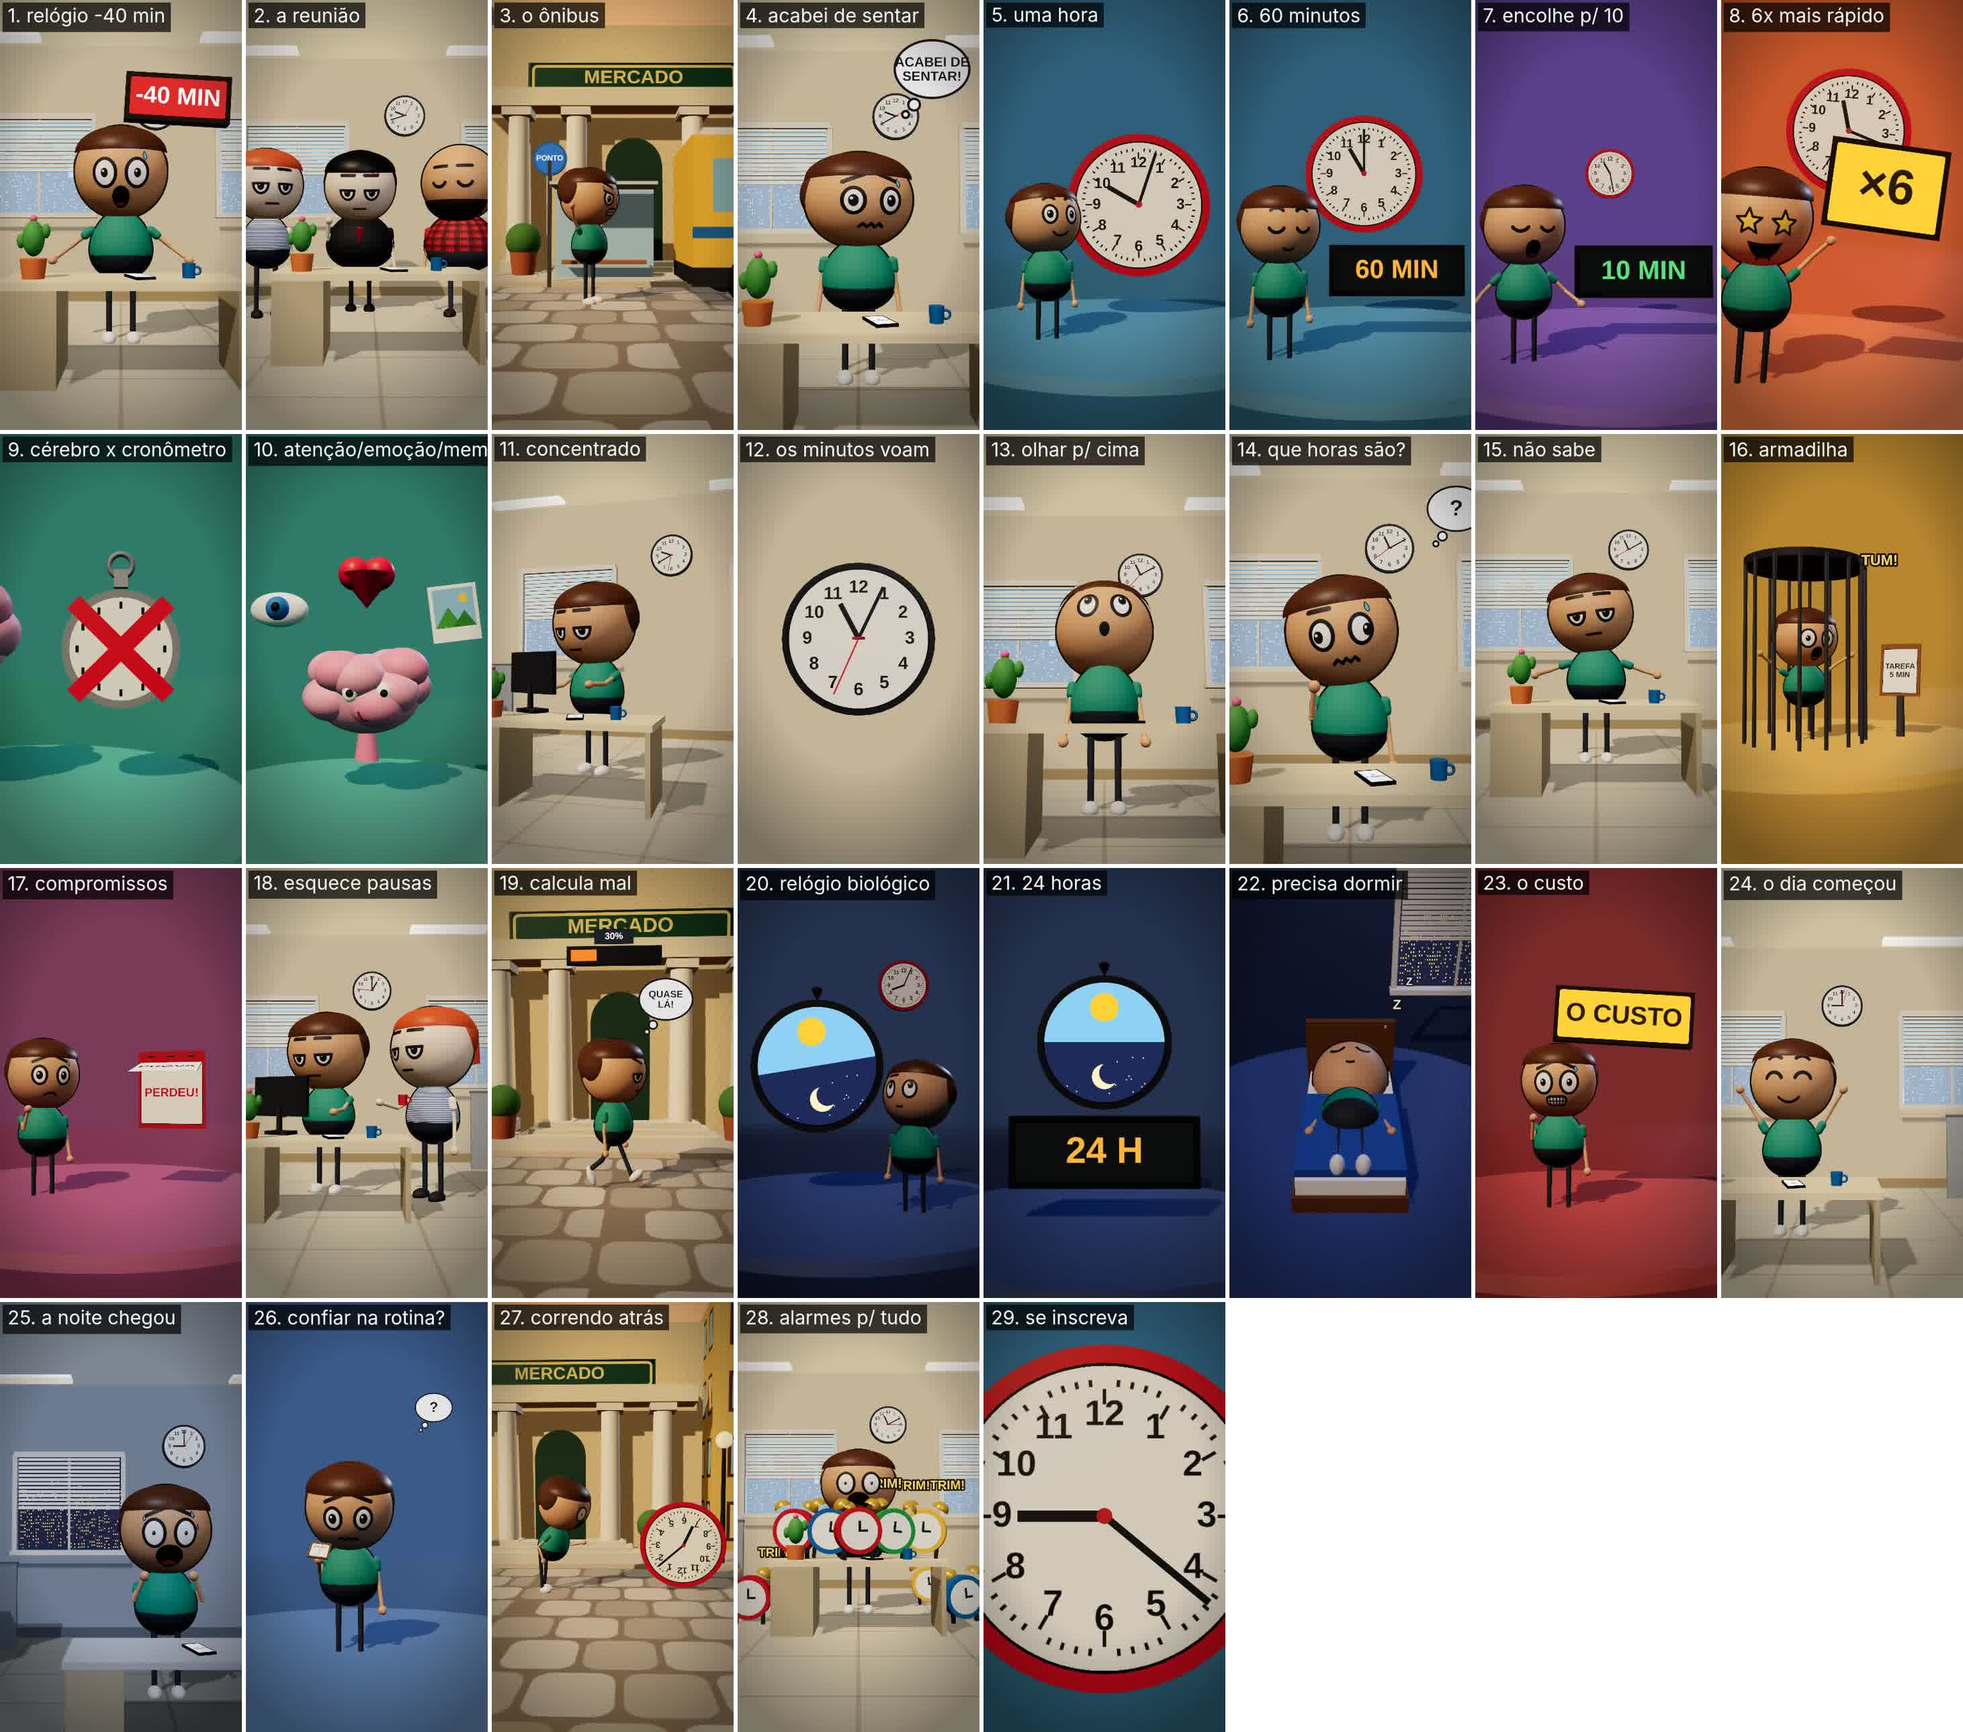
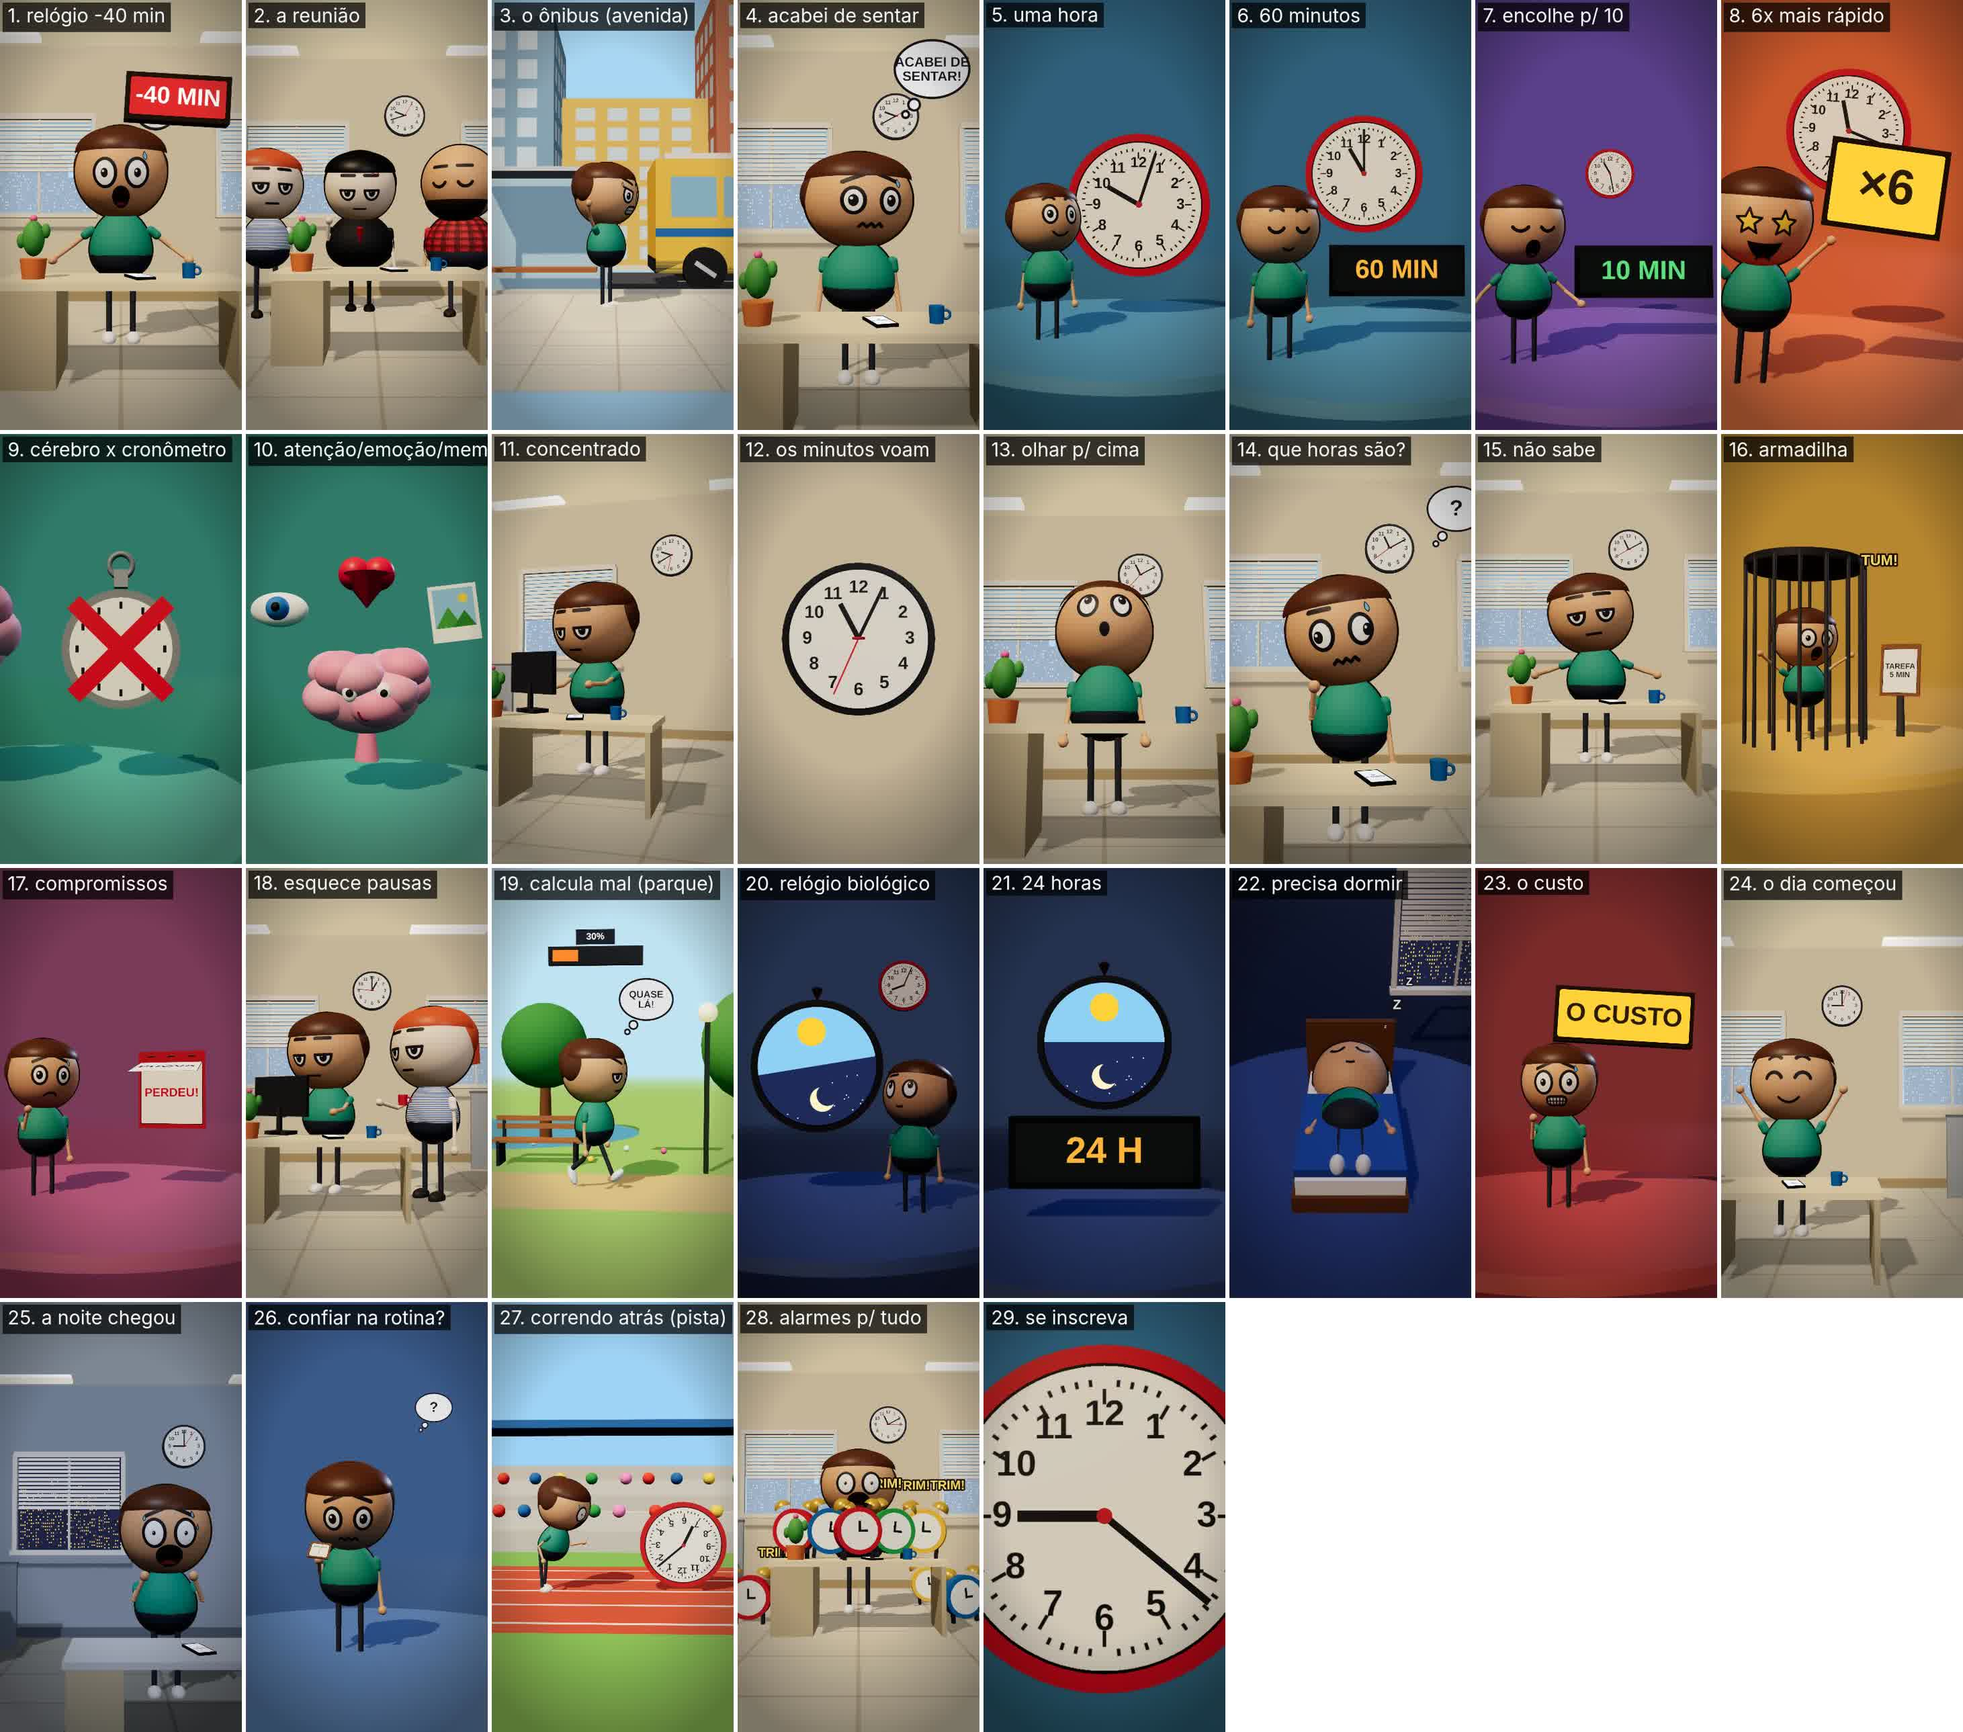
Cenas 3, 19 e 27 com cenários próprios (avenida, parque, pista); regra de não repetir cenários
Claude-Session: https://claude.ai/code/session_016bHbYKiNFahAkYpXj2UE3y

Changed region(s): [[0.2491, 0.4965, 0.3737, 1.0], [0.2491, 0.0, 0.3737, 0.2483]]

diff --git a/estudio-animacoes-3d/src/cenarios.tsx b/estudio-animacoes-3d/src/cenarios.tsx
@@ -472,3 +472,195 @@ const grama = () =>
   }, [20, 20]);
 
 
+
+// ============================================================================
+// AVENIDA COM PONTO DE ÔNIBUS — calçada na frente (z -0.6 a 1.6), rua atrás (faixa central em z = -3,
+// o ônibus anda em z ≈ -2.6), prédios ao fundo. Semáforo, faixa de pedestre, árvores.
+// ============================================================================
+export const Avenida = ({ t = 0 }: { t?: number }) => (
+  <group>
+    <Luz bg="#a9d6f2" ceu="#fff6e0" chao="#6a6a6a" fill={1.05} sol="#ffe8c8" forca={2.4} fog={[22, 70]} />
+    {/* calçada */}
+    <mesh rotation={[-Math.PI / 2, 0, 0]} position={[0, 0.06, 2]} receiveShadow>
+      <planeGeometry args={[60, 5.2]} />
+      <meshStandardMaterial map={pisoCalcada()} roughness={0.9} />
+    </mesh>
+    <Box p={[0, 0.06, -0.62]} s={[60, 0.14, 0.2]} c="#c9c4ba" />
+    {/* asfalto */}
+    <mesh rotation={[-Math.PI / 2, 0, 0]} position={[0, 0, -3.2]} receiveShadow>
+      <planeGeometry args={[60, 5.2]} />
+      <meshStandardMaterial color="#4a4d55" roughness={0.95} />
+    </mesh>
+    {Array.from({ length: 16 }, (_, i) => (
+      <Box key={i} p={[-24 + i * 3.2, 0.01, -3.2]} s={[1.6, 0.01, 0.14]} c="#f2e9c8" />
+    ))}
+    {Array.from({ length: 6 }, (_, i) => (
+      <Box key={`fp${i}`} p={[4.6, 0.012, -1.2 - i * 0.8]} s={[2.0, 0.01, 0.4]} c="#f4f4f2" />
+    ))}
+    {/* calçada do outro lado e prédios */}
+    <mesh rotation={[-Math.PI / 2, 0, 0]} position={[0, 0.06, -7.2]}>
+      <planeGeometry args={[60, 3]} />
+      <meshStandardMaterial color="#cfc8bb" />
+    </mesh>
+    {[[-11, 7, '#d98c5f'], [-5.5, 9, '#7fa8c8'], [0, 6, '#e8b85a'], [5.5, 10, '#c7765a'], [11, 7.5, '#9fc08a']].map(([x, h, c], i) => (
+      <Box key={i} p={[x as number, (h as number) / 2, -10]} s={[5.2, h as number, 4]} map={janelasPredio(c as string)} />
+    ))}
+    {/* semáforo */}
+    <group position={[3.2, 0, -0.9]}>
+      <Box p={[0, 1.6, 0]} s={[0.1, 3.2, 0.1]} c="#2a2c32" />
+      <Box p={[0, 3.3, 0.05]} s={[0.36, 0.9, 0.26]} c="#2a2c32" />
+      {['#ff4a3a', '#ffd23a', '#5ce07a'].map((c, i) => (
+        <mesh key={c} position={[0, 3.6 - i * 0.28, 0.19]}>
+          <circleGeometry args={[0.1, 20]} />
+          <meshStandardMaterial color={c} emissive={c} emissiveIntensity={(Math.floor(t / 2) % 3) === i ? 2.2 : 0.15} toneMapped={false} />
+        </mesh>
+      ))}
+    </group>
+    {/* árvores na calçada */}
+    {[-5.5, 6.5].map((x) => (
+      <group key={x} position={[x, 0, -0.1]}>
+        <mesh position={[0, 1.0, 0]}>
+          <cylinderGeometry args={[0.1, 0.14, 2.0, 10]} />
+          <meshStandardMaterial color="#7a4a26" />
+        </mesh>
+        <mesh position={[0, 2.5, 0]} castShadow>
+          <sphereGeometry args={[1.0, 18, 14]} />
+          <meshStandardMaterial color="#4f9a42" roughness={0.9} />
+        </mesh>
+      </group>
+    ))}
+    <Box p={[-3.6, 0.45, 1.2]} s={[0.5, 0.9, 0.5]} c="#3a7a4a" />
+  </group>
+);
+
+const pisoCalcada = () =>
+  canvasTex('calcada', 512, 512, (c) => {
+    c.fillStyle = '#d9d2c4';
+    c.fillRect(0, 0, 512, 512);
+    c.strokeStyle = 'rgba(90,80,70,0.3)';
+    c.lineWidth = 4;
+    for (let i = 0; i <= 4; i++) {
+      c.beginPath();
+      c.moveTo(i * 128, 0);
+      c.lineTo(i * 128, 512);
+      c.moveTo(0, i * 128);
+      c.lineTo(512, i * 128);
+      c.stroke();
+    }
+  }, [20, 2]);
+
+const janelasPredio = (cor: string) =>
+  canvasTex(`predio|${cor}`, 256, 512, (c) => {
+    c.fillStyle = cor;
+    c.fillRect(0, 0, 256, 512);
+    c.fillStyle = '#cfe6f4';
+    for (let y = 30; y < 500; y += 60) for (let x = 24; x < 230; x += 56) c.fillRect(x, y, 34, 40);
+  });
+
+// ============================================================================
+// PARQUE — caminho de terra ao longo de X (personagem anda em z ≈ 0.2), árvores, postes, banco, lago,
+// e uma placa ao fundo indicando o destino (placa: texto).
+// ============================================================================
+export const Parque = ({ placa = 'TRABALHO →\n5 KM' }: { placa?: string }) => (
+  <group>
+    <Luz bg="#bfe3f2" ceu="#fffbe8" chao="#5a8a3a" fill={1.05} sol="#fff0d0" forca={2.4} fog={[20, 60]} />
+    <mesh rotation={[-Math.PI / 2, 0, 0]} receiveShadow>
+      <planeGeometry args={[120, 120]} />
+      <meshStandardMaterial color="#8cc65a" roughness={1} />
+    </mesh>
+    <mesh rotation={[-Math.PI / 2, 0, 0]} position={[0, 0.01, 0.2]} receiveShadow>
+      <planeGeometry args={[60, 1.8]} />
+      <meshStandardMaterial color="#d8b47a" roughness={1} />
+    </mesh>
+    {/* lago */}
+    <mesh rotation={[-Math.PI / 2, 0, 0]} position={[-3, 0.02, -5]} scale={[1.6, 1, 1]}>
+      <circleGeometry args={[2.4, 40]} />
+      <meshStandardMaterial color="#5ab0e0" roughness={0.15} metalness={0.2} />
+    </mesh>
+    {/* árvores */}
+    {[[-6, -2.5], [-1.5, -3.5], [3.5, -2.8], [7, -4], [10, -2.2], [-9, -4.5], [5.5, 3.5], [-4.5, 3.8]].map(([x, z], i) => (
+      <group key={i} position={[x, 0, z]}>
+        <mesh position={[0, 0.9, 0]}>
+          <cylinderGeometry args={[0.12, 0.16, 1.8, 10]} />
+          <meshStandardMaterial color="#7a4a26" />
+        </mesh>
+        <mesh position={[0, 2.4, 0]} castShadow>
+          <sphereGeometry args={[1.0 + rand(i) * 0.4, 18, 14]} />
+          <meshStandardMaterial color={i % 2 ? '#3f8a3a' : '#5aa846'} roughness={0.9} />
+        </mesh>
+      </group>
+    ))}
+    {/* postes */}
+    {[-4, 2, 8].map((x) => (
+      <group key={x} position={[x, 0, -0.9]}>
+        <Box p={[0, 1.4, 0]} s={[0.08, 2.8, 0.08]} c="#2a3a2a" />
+        <mesh position={[0, 2.9, 0]}>
+          <sphereGeometry args={[0.18, 14, 10]} />
+          <meshStandardMaterial color="#fff6d8" emissive="#ffe6a0" emissiveIntensity={0.6} />
+        </mesh>
+      </group>
+    ))}
+    <Banco position={[-1.2, 0, -1.4]} />
+    <PlacaMadeira texto={placa} w={1.6} h={0.75} poste={1.4} position={[9, 0, -1.2]} rotation={[0, -0.25, 0]} />
+    {Array.from({ length: 10 }, (_, i) => (
+      <mesh key={`f${i}`} position={[(rand(i + 20) - 0.5) * 16, 0.08, -1.4 - rand(i + 21) * 2]}>
+        <sphereGeometry args={[0.07, 8, 6]} />
+        <meshStandardMaterial color={['#ff6aa0', '#ffd23a', '#ffffff'][i % 3]} />
+      </mesh>
+    ))}
+  </group>
+);
+
+// ============================================================================
+// PISTA DE CORRIDA — raias vermelhas ao longo de X (raia do personagem em z ≈ 0.3), gramado e arquibancada
+// colorida ao fundo, faixa de chegada.
+// ============================================================================
+export const Pista = () => (
+  <group>
+    <Luz bg="#9fd3f5" ceu="#fff8e8" chao="#7a4a3a" fill={1.05} sol="#fff0d0" forca={2.5} fog={[24, 80]} />
+    <mesh rotation={[-Math.PI / 2, 0, 0]} receiveShadow>
+      <planeGeometry args={[120, 120]} />
+      <meshStandardMaterial color="#6fb84a" roughness={1} />
+    </mesh>
+    <mesh rotation={[-Math.PI / 2, 0, 0]} position={[0, 0.01, 0.3]} receiveShadow>
+      <planeGeometry args={[80, 5]} />
+      <meshStandardMaterial color="#c8503a" roughness={0.9} />
+    </mesh>
+    {[-1.9, -0.9, 0.1, 1.1, 2.1].map((z) => (
+      <Box key={z} p={[0, 0.02, z + 0.3]} s={[80, 0.01, 0.06]} c="#ffffff" />
+    ))}
+    {/* faixa de chegada */}
+    {Array.from({ length: 10 }, (_, i) => (
+      <Box key={`c${i}`} p={[14, 0.021, -1.95 + i * 0.5]} s={[0.5, 0.01, 0.5]} c={i % 2 ? '#ffffff' : '#1e1f24'} />
+    ))}
+    {/* arquibancada */}
+    {Array.from({ length: 5 }, (_, r) => (
+      <Box key={r} p={[0, 0.35 + r * 0.55, -5 - r * 0.7]} s={[40, 0.7 + r * 0.0, 0.7]} c={r % 2 ? '#d9d6cc' : '#c9c4ba'} />
+    ))}
+    {Array.from({ length: 70 }, (_, i) => (
+      <mesh key={`p${i}`} position={[-18 + (i % 35) * 1.05 + (rand(i) - 0.5) * 0.3, 1.05 + Math.floor(i / 35) * 1.1 + 0.25, -5.2 - Math.floor(i / 35) * 1.4]}>
+        <sphereGeometry args={[0.22, 10, 8]} />
+        <meshStandardMaterial color={['#e8402f', '#2f6fb3', '#ffd23a', '#3aa14a', '#ff8ad0'][i % 5]} />
+      </mesh>
+    ))}
+    <Box p={[0, 4.5, -8.8]} s={[40, 0.3, 2.6]} c="#2f6fb3" />
+    {/* faixa CHEGADA */}
+    <group position={[14, 0, 0.3]}>
+      {[-2.6, 2.6].map((z) => (
+        <Box key={z} p={[0, 1.6, z]} s={[0.12, 3.2, 0.12]} c="#2a2c32" />
+      ))}
+      <mesh position={[0, 3.0, 0]} rotation={[0, -Math.PI / 2, 0]}>
+        <planeGeometry args={[5.2, 0.6]} />
+        <meshStandardMaterial map={canvasTex('chegada', 1024, 128, (c) => {
+          c.fillStyle = '#ffd23a';
+          c.fillRect(0, 0, 1024, 128);
+          c.fillStyle = '#1e1f24';
+          c.font = '900 90px "Arial Black", Arial';
+          c.textAlign = 'center';
+          c.textBaseline = 'middle';
+          c.fillText('CHEGADA', 512, 66);
+        })} side={THREE.DoubleSide} />
+      </mesh>
+    </group>
+  </group>
+);

diff --git a/estudio-animacoes-3d/src/shots.tsx b/estudio-animacoes-3d/src/shots.tsx
@@ -1,7 +1,7 @@
 import { JSX } from 'react';
 import { lerp, seg, track, V3 } from './anim';
 import { CAM, Efeito } from './camera';
-import { Escritorio } from './cenarios';
+import { Avenida, Escritorio, Parque, Pista } from './cenarios';
 import { Character, faceAt, Pose, REST } from './Character';
 import {
   BotaoInscreva, Cama, Cerebro, CicloDiaNoite, Contador, Cronometro, DEITADO, Despertador, IconeCoracao, IconeFoto, IconeOlho, Jaula, Onibus, Palco,
@@ -10,7 +10,7 @@ import {
 import { BalaoPensamento, BarraProgresso, Caneca, JanelaPersiana, Monitor } from './objetos';
 import { NOVOS } from './personagens';
 import { Calendar, Clipboard, Comic, dropY, Puff, Sparkles } from './props';
-import { Cam, Street } from './sets';
+import { Cam } from './sets';
 import { W } from './timeline';
 
 // ============================================================================
@@ -69,14 +69,14 @@ const S02 = ({ t, t0, t1 }: ShotProps) => {
 const S03 = ({ t, t0, t1 }: ShotProps) => {
   const pa = W(2, 'passou');
   const corre = seg(t, t0, pa);
-  const x = lerp(-2.6, -1.0, corre);
+  const x = lerp(-2.4, -0.9, corre);
   return (
     <>
-      <Street placa="MERCADO" />
-      <Cam t={t} t0={t0} t1={t1} keys={CAM.pousa(t0, t1, [-0.6, 1.5, 0.3], { dist: 6.4, de: 'longe' })} />
-      <PontoOnibus position={[-2.0, 0, -2.0]} />
-      <Onibus x={lerp(1.8, 8, seg(t, t0, t1 + 0.6, (k) => k * k))} z={-0.2} />
-      <Character pose={track(t, P({ x, z: 0.2, ry: 1.1, walk: (x + 2.6) / 0.24, stride: corre < 1 ? 1 : 0, lean: 0.2 }), [{ at: pa, v: { lsz: 2.4, rsz: 2.4, lel: 0.3, rel: 0.3, lean: 0 } }])} face={faceAt(t, [{ at: t0, f: 'panic', o: ['sweat'] }, { at: pa, f: 'frustrated', o: ['sweat3'] }], 5)} look={LEO} />
+      <Avenida t={t} />
+      <Cam t={t} t0={t0} t1={t1} keys={CAM.pousa(t0, t1, [-0.8, 1.5, 0.2], { dist: 6.4, de: 'longe' })} />
+      <PontoOnibus position={[-3.3, 0, 0.1]} />
+      <Onibus x={lerp(1.0, 8, seg(t, t0, t1 + 0.6, (k) => k * k))} z={-2.6} />
+      <Character pose={track(t, P({ x, z: 0.2, ry: 1.1, walk: (x + 2.4) / 0.24, stride: corre < 1 ? 1 : 0, lean: 0.2, z: 0.7 }), [{ at: pa, v: { lsz: 2.4, rsz: 2.4, lel: 0.3, rel: 0.3, lean: 0 } }])} face={faceAt(t, [{ at: t0, f: 'panic', o: ['sweat'] }, { at: pa, f: 'frustrated', o: ['sweat3'] }], 5)} look={LEO} />
       <Puff t={t} at={t0 + 0.3} position={[3.5, 0.3, 1.6]} color="#c8c0b0" />
     </>
   );
@@ -261,8 +261,8 @@ const S19 = ({ t, t0, t1 }: ShotProps) => {
   const x = lerp(-1.5, 0.6, seg(t, t0, t1, (k) => k));
   return (
     <>
-      <Street placa="MERCADO" />
-      <Cam t={t} t0={t0} t1={t1} keys={[[t, [x * 0.7 + 0.3, 2.0, 5.6], [x * 0.8, 1.7, 0.2], 34]]} />
+      <Parque />
+      <Cam t={t} t0={t0} t1={t1} keys={[[t, [x * 0.7 + 0.6, 2.0, 5.6], [x * 0.8 + 0.3, 1.7, 0.2], 34]]} />
       <Character pose={P({ x, z: 0.2, ry: 1.2, walk: (x + 1.5) / 0.24, stride: 1 })} face={faceAt(t, [{ at: t0, f: 'confident' }], 19)} look={LEO} />
       <BalaoPensamento t={t} at={W(13, 'calcula')} texto={'QUASE\nLÁ!'} hold={9} size={0.95} position={[x + 0.8, 2.9, 0.2]} />
       <BarraProgresso t={t} from={W(13, 'calcula')} at={W(13, 'falta')} valor={0.3} cor="#ff8a2a" position={[x * 0.8, 3.75, -0.2]} scale={0.7} />
@@ -357,7 +357,7 @@ const S27 = ({ t, t0, t1 }: ShotProps) => {
   const xl = lerp(-2.6, 1.4, k);
   return (
     <>
-      <Street placa="MERCADO" />
+      <Pista />
       <Cam t={t} t0={t0} t1={t1} keys={[[t, [xl + 1.6, 2.0, 7.2], [xl + 1.4, 1.5, 0.3], 34]]} />
       <RelogioGrande minutos={(t - t0) * 30} horas={(t - t0) * 3} tamanho={0.95} position={[xr, 0.95, 0.3]} rotation={[0, 0, -(xr - 0.2) / 0.95]} />
       <Character pose={P({ x: xl, z: 0.3, ry: Math.PI / 2 - 0.3, walk: (xl + 2.6) / 0.2, stride: 1, lean: 0.3, lsx: 0.9, rsx: -0.5, lel: 1.2, rel: 1.2 })} face={faceAt(t, [{ at: t0, f: 'panic', o: ['sweat3'] }], 26)} look={LEO} />

diff --git a/estudio-animacoes-3d/CLAUDE.md b/estudio-animacoes-3d/CLAUDE.md
@@ -119,7 +119,9 @@ estas regras. Quando uma regra não puder ser cumprida, avise antes de seguir.
 ## 2 — Cenário
 - Nenhuma cena começa num chão vazio: sempre há fundo, objetos e luz com sombra (`WarmLights`).
 - Luz quente e suave, cores saturadas, névoa ao fundo; o assunto principal sempre nítido.
-- Um componente por lugar, reutilizado em várias tomadas.
+- Um componente por lugar, reutilizado em tomadas **seguidas**. Preferência do dono: **não repetir cenários** —
+  a mesma fachada/lugar não volta em pontos diferentes do vídeo e cada vídeo ganha cenários próprios (crie um novo
+  em `src/cenarios.tsx` em vez de reaproveitar o de outra cena: avenida, parque, pista, quarto, palco de outra cor...).
 
 ## 3 — Informação vira objeto
 - Todo número, data ou fato falado aparece **dentro da cena** como objeto (placa, calendário, contador, medidor,
